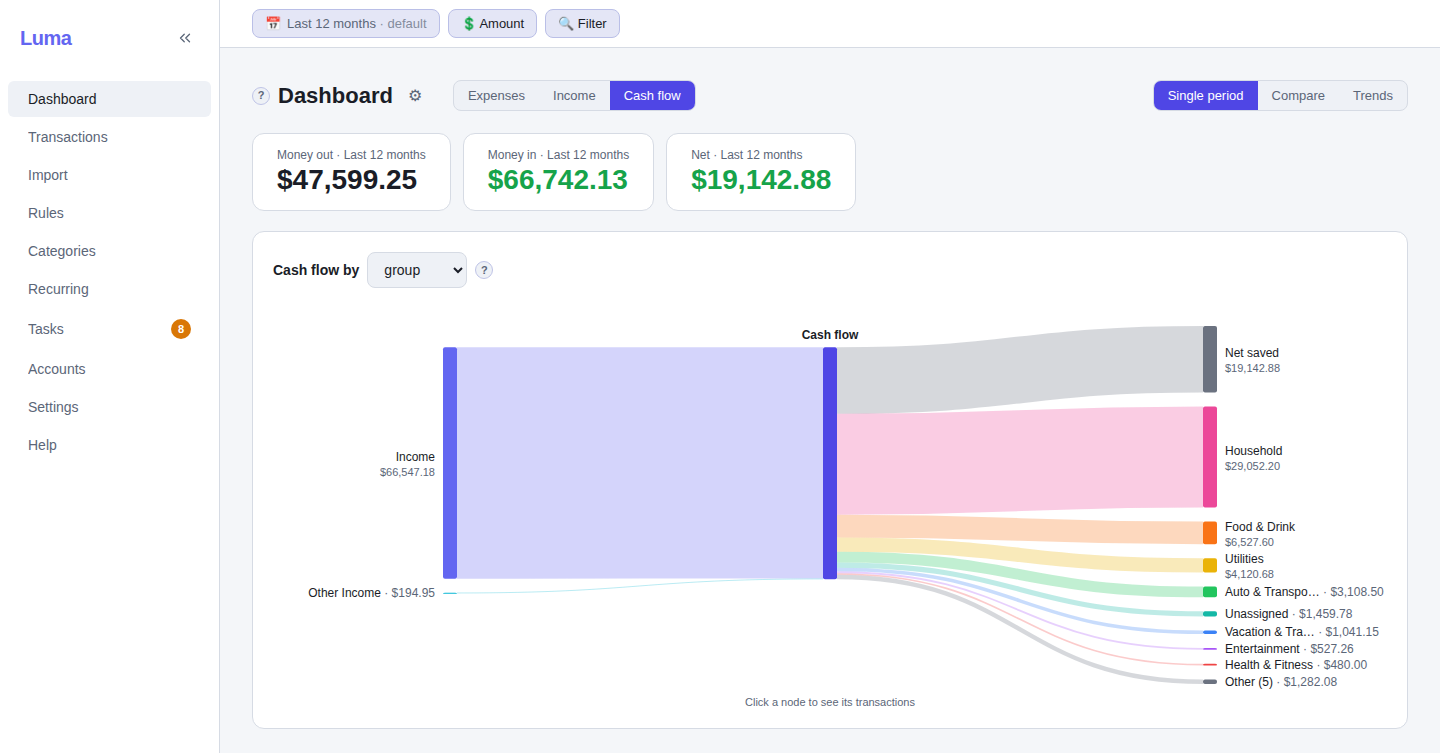
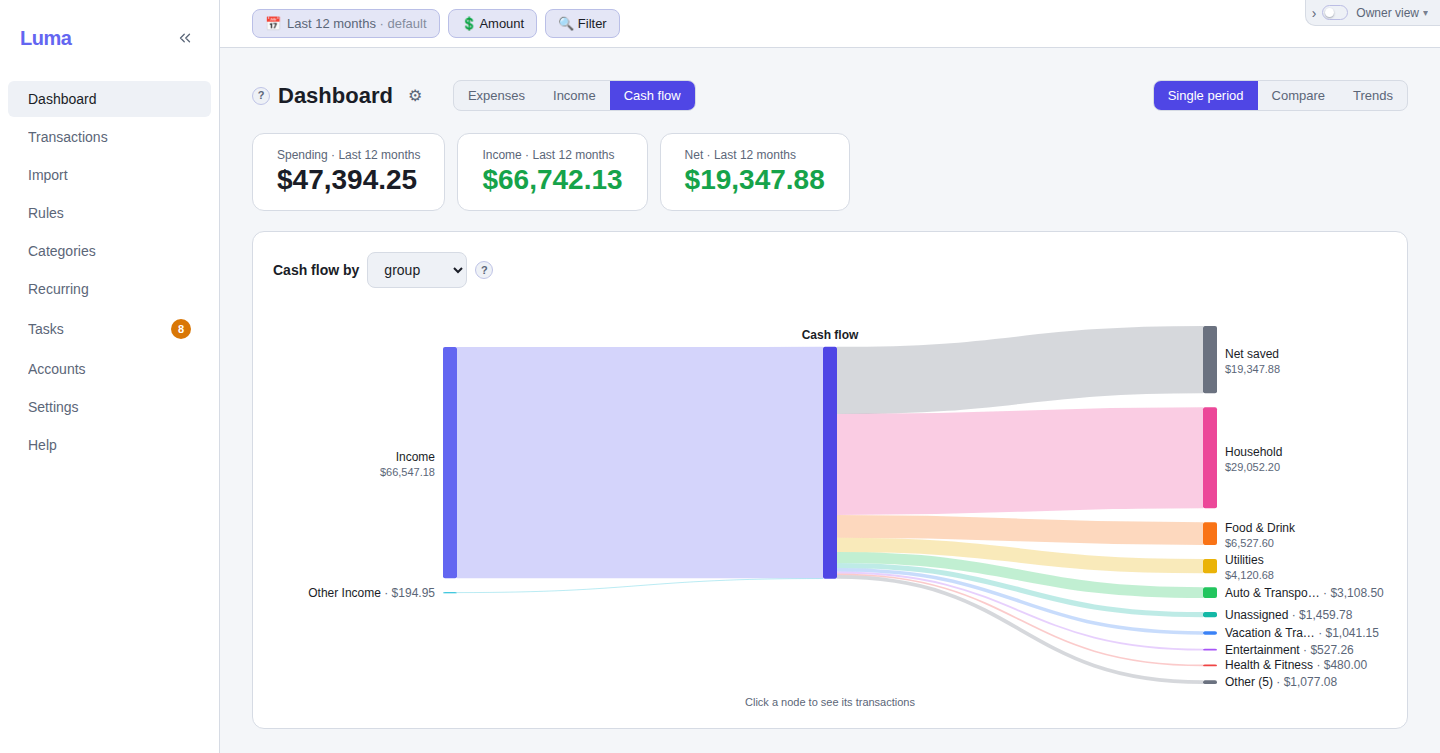
Clean up some minor readme issues, refresh the screenshots which have changed

diff --git a/frontend/tests/screenshots/readme.spec.js b/frontend/tests/screenshots/readme.spec.js
@@ -73,21 +73,6 @@ test('cash flow', async ({ page }) => {
   })
 })
 
-test('cash flow trends', async ({ page }) => {
-  await openDashboard(page)
-  await page.getByRole('button', { name: 'Cash flow' }).click()
-  await page.getByRole('button', { name: 'Trends' }).click()
-  // The innermost element holding both the card's title and its chart.
-  const card = page.locator('div')
-    .filter({ has: page.getByText('Monthly trend', { exact: true }) })
-    .filter({ has: page.locator('.recharts-wrapper') })
-    .last()
-  await expect(card).toBeVisible()
-  await hideDemoBanner(page)
-  await settle(page)
-  await card.screenshot({ path: path.join(OUT_DIR, 'cash-flow-trends.png') })
-})
-
 test('transactions', async ({ page }) => {
   await page.goto('/transactions')
   // A row part-way down, so the rows above it still show their categories beside the open picker.
@@ -99,6 +84,8 @@ test('recurring', async ({ page }) => {
   await page.goto('/recurring')
   await page.getByRole('button', { name: /Needs attention/ }).first().click()
   await expect(page.getByRole('button', { name: 'Dismiss' }).first()).toBeVisible()
+  // The click leaves the pointer where the filter pills render, which draws one hovered.
+  await page.mouse.move(0, 0)
   await shoot(page, 'recurring')
 })
 

diff --git a/README.md b/README.md
@@ -39,21 +39,21 @@ Anyone whose main requirement is either of these will be better served by some o
 
 **Investment accounts.** Investment accounts currently are only of interest as far as money moving in or out of them from other accounts. This one may change in the future.
 
-**Phones.** Luma is built for a laptop or desktop sized screen, and its pages do not adapt to a small one. A tablet is about the smallest device it is comfortable on although a device with a keyboard seem helpful.
+**Phones.** Luma is built for a laptop or desktop sized screen, and its pages do not adapt to a small one. A tablet is about the smallest device it is comfortable on, although a device with a keyboard seems helpful.
 
 ## What Luma is good at
 
-- **Keeping the friction low** — getting data in and keeping it current should not be a project in its own right. Overlapping imports sort themselves out, and rules exists to apply categorization or edits to incoming data. Rules can be derived from imported data which is already curated to help make migration less painful.
+- **Keeping the friction low** — getting data in and keeping it current should not be a project in its own right. Overlapping imports sort themselves out, and rules exist to apply categorization or edits to incoming data. Rules can be derived from imported data which is already curated to help make migration less painful.
 
 - **Structure if it's wanted** — categories, tags and rules are not the point, examining spending is. If they are useful, they are available.
 
-- **Recurring series detection** — automatic and helpful to pick up unwanted subscriptions,  subscription that quietly went up, a missing bill, a charge outside the range of the rule that used to catch it.
+- **Recurring series detection** — automatic and helpful to pick up unwanted subscriptions, a subscription that quietly went up, a missing bill, a charge outside the range of the rule that used to catch it.
 
 - **Staying out of the way** — if something needs changing, it can usually be changed right there without having to switch to a different page for editing.
 
 ## Quick start
 
-1. Download the build from the [releases page](https://github.com/jeff162/luma/releases), extract it to a directory, run `luma`and Luma will open in the browser.
+1. Download the build from the [releases page](https://github.com/jeff162/luma/releases), extract it to a directory, run `luma` and Luma will open in the browser.
 2. Enter a user name and choose **Load demo data**.
 3. Look around. The demo data is crafted so most features can be explored.
 4. When ready, use **Clear demo data** and bring in real data — see [Getting started with real data](#getting-started-with-real-data). Load demo data is on the Import page if it gets cleared by accident.
@@ -71,19 +71,17 @@ Anyone whose main requirement is either of these will be better served by some o
 
   ![The cash-flow view: income on the left flowing out to spending groups and net saved on the right](docs/images/cash-flow.png)
 
-  ![The cash-flow trend: each month's money in above the line and money out below it, with the net drawn across them](docs/images/cash-flow-trends.png)
-
 - **Getting data in** — a CSV file exported from a bank or card or a connected data source (e.g. SimpleFIN Bridge). Folder watching loads downloaded files automatically to make using CSV exports easier.
 
 - **Re-importing just works.** Importing overlapping exports or statements from a single source ignores the already imported transactions. Activity that arrives from a different source for the same account but with slight differences is flagged as a likely duplicate for review.
 
-- **Staying categorized over time** — rules apply categories, merchant renames and tags to matching transactions as they arrive, and can be "learned" from already categorized data and as part of the categorization process.
+- **Staying categorized over time** — rules apply categories, merchant renames and tags to matching transactions as they arrive, and can be "learned" from already categorized data and as part of the categorization process. A rule can also raise a task when a matching transaction arrives, for something worth knowing about as it happens.
 
 - **Filling in detail for marketplace purchases** — Amazon/PayPal purchases typically arrive with just the marketplace name, the amount and nothing else. The marketplace's own export adds the missing detail: Amazon order history as CSV files and PayPal activity as its monthly statement PDFs or a CSV can enrich the entries with the transaction details. In addition to providing useful information in the transaction register, this also allows the transactions to be categorized as more than just "Amazon Spending". Charges which represent multiple purchases can be split into multiple items for categorization purposes.
 
   ![The Amazon reconciliation report: each order matched to its card charge, and one charge no order accounts for](docs/images/amazon-reconciliation.png)
 
-- **Splitting a transaction across categories** — a single charge that was part one thing and part another can be divided between them rather than filing the whole amount under one category. Each part can be labelled with what it covered. The Amazon reconcilliation report offers to split charges which contain multiple items to record details for the individual items.
+- **Splitting a transaction across categories** — a single charge that was part one thing and part another can be divided between them rather than filing the whole amount under one category. Each part can be labelled with what it covered. The Amazon reconciliation report offers to split charges which contain multiple items to record details for the individual items.
 
 - **Keep track of receipts** — receipt or invoice can be added to a transaction by dropping in a file or pasting from the clipboard. A PDF invoice or HTML receipt contains readable text so these are searchable alongside everything else. A photographed receipt can be stored and viewed but is not searchable as there is no OCR support.
 
@@ -93,11 +91,11 @@ Anyone whose main requirement is either of these will be better served by some o
 
   ![The Recurring page's Needs attention view: a missing subscription charge and two price changes](docs/images/recurring.png)
 
-- **Reimbursable Expenses** — Expenses which are reimbursable can be flagged so the reimbursable portion is exluded from spending. When the reimbursement arrives it is paired with the expense and it is not treated as income. Alerts exist to indicate if reimbursement is not received within the expected timeframe.
+- **Reimbursable Expenses** — Expenses which are reimbursable can be flagged so the reimbursable portion is excluded from spending. When the reimbursement arrives it is paired with the expense and it is not treated as income. Alerts exist to indicate if reimbursement is not received within the expected timeframe.
 
-- **Multiple owners** — track personal and shared finances across several people in one ledger, with owner as a reporting axis rather than a separate set of books.
+- **Multiple owners** — track personal and shared finances across several people in one ledger, with owner as a reporting axis rather than a separate set of books. Owner view narrows most pages to one person's accounts.
 
-- **Backup and restore** — Backup the data, the sign-in accounts and data source credentials, with optional encryption under a key of the user's choosing, and choose what to put back when restoring. Export the data as a csv file for moving to another app or using with another too.
+- **Backup and restore** — Backup the data, the sign-in accounts and data source credentials, with optional encryption under a key of the user's choosing, and choose what to put back when restoring. Export the data as a csv file for moving to another app or using with another tool.
 
 - **Tasks** — a running list of what needs attention, such as uncategorized transactions, issues with recurring payments, late reimbursements.
 
@@ -133,7 +131,7 @@ What comes in, what stays and what leaves are all the user's decision. Luma is b
 
 Local-first also means the security model is easy to reason about — but it's worth being clear about what protects what, and what a compromise would actually mean.
 
-- **Transaction data is stored unencrypted on disk.** The ledger lives unencrypted in a local SQLite database, so the database files — and any **unencrypted** backup — are the artifacts to protect. Access to the machine and its files are responsible for securing these assets if they are considered sensitive. **Encrypted backup** (protected with a user-supplied key) can be generted for anything that will leave the machine.
+- **Transaction data is stored unencrypted on disk.** The ledger lives unencrypted in a local SQLite database, so the database files — and any **unencrypted** backup — are the artifacts to protect. Access to the machine and its files are responsible for securing these assets if they are considered sensitive. **Encrypted backup** (protected with a user-supplied key) can be generated for anything that will leave the machine.
 
 - **The optional sign-in password is application access control.** It governs who on the local machine or network (for server installs) can reach a running instance. It does not encrypt the database, does not prevent someone from examining the database file directly with SQLite. 2FA is available for use with sign-in passwords, passkeys are available as a convenience.
 
@@ -163,7 +161,7 @@ Luma for a single machine is distributed as a self-contained download. The curre
 
 **macOS (Intel) is built but not published**, because it has not been tested on an Intel Mac. A tagged release's build of it is downloadable from that run of the [Release workflow](https://github.com/jeff162/luma/actions/workflows/release.yml) (a GitHub sign-in is needed, and the files expire after 90 days), and a fresh one can be built by running the workflow with the `macos-15-intel` platform.
 
-**The builds are unsigned.** so Windows and macOS both generate warnings about untrusted software on first run.
+**The builds are unsigned**, so Windows and macOS both generate warnings about untrusted software on first run.
 
 ### Windows and Linux — portable
 
@@ -344,7 +342,7 @@ To be sure a computer received the server's own certificate, compare the fingerp
 
 ## Locked out
 
-A forgotten password is reset from a terminal on the computer that holds the data, by running Luma with`--reset-password`:
+A forgotten password is reset from a terminal on the computer that holds the data, by running Luma with `--reset-password`:
 
 | Installation              | Command                                                                  |
 | ------------------------- | ------------------------------------------------------------------------ |
@@ -372,7 +370,7 @@ It shows both files and what the financial database holds, and asks before chang
 
 ## Running from source
 
-Running from a checkout needs Python 3.12 or newer and Node.js 22.12+, and is the arrangement for working *on* Luma rather than with it. `CONTRIBUTING.md` has the setup, the useful checks and the project conventions.
+Running from a checkout needs Python 3.12 or newer and Node.js 22.12+, 24 or 26+, and is the arrangement for working *on* Luma rather than with it. `CONTRIBUTING.md` has the setup, the useful checks and the project conventions.
 
 An optional `.env` file overrides the handful of values resolved before the app is running — the ports, the data directory (`DATA_DIR`, holding both databases, the `documents` folder of attachments and the `luma.log` error log), and the developer-options gate. Copy `env_example.txt` to `.env` to use it.
 
